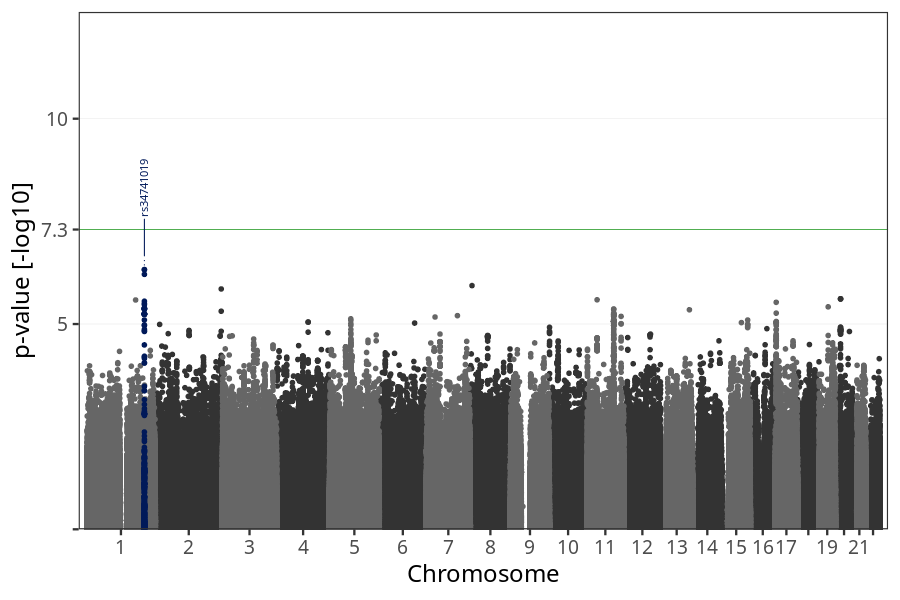
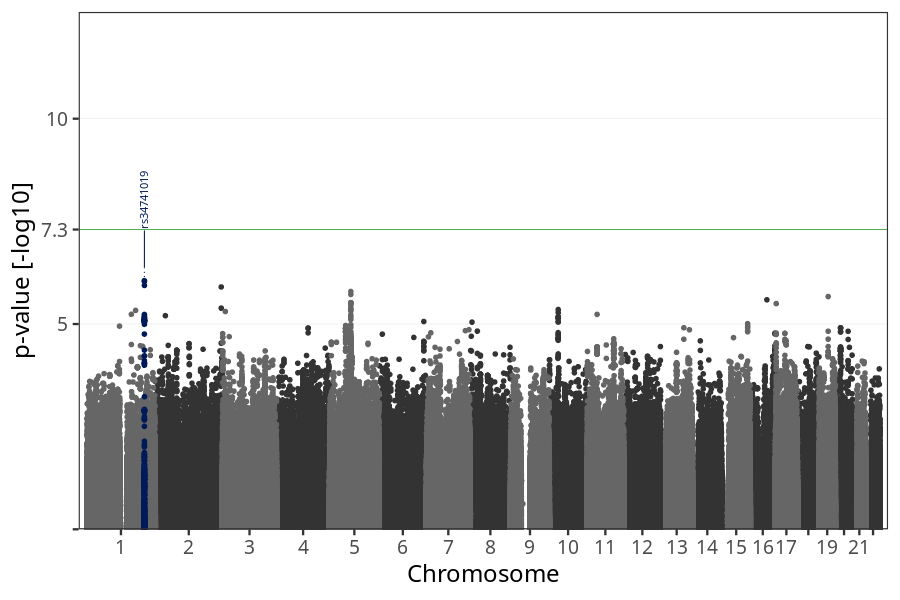
rerun gwas

diff --git a/docs/hyperemesis_gravidarum.md b/docs/hyperemesis_gravidarum.md
@@ -1,75 +1,33 @@
 # Hyperemesis gravidarum
 GWAS of mothers hospitalized due to prolonged nausea and vomiting.
 
-### children
-
-#### Phenotypes
-| Value | N |
-| ----- | - |
-| 0 | 72641 |
-| 1 | 748 |
-| Total | 73389 |
-
-#### Association results
-- [Association results](regenie/pop_children_pheno_hyperemesis_gravidarum/pop_children_pheno_hyperemesis_gravidarum.md)
-![](regenie/pop_children_pheno_hyperemesis_gravidarum/figures/pop_children_pheno_hyperemesis_gravidarum_mh.png)
-Results prior to COJO are available [here](regenie_no_cojo/pop_children_pheno_hyperemesis_gravidarum/pop_children_pheno_hyperemesis_gravidarum.md)
-
 ### children_no_nausea_vomiting
 
 #### Phenotypes
 | Value | N |
 | ----- | - |
-| 0 | 54051 |
+| 0 | 18590 |
 | 1 | 748 |
-| Total | 54799 |
+| Total | 19338 |
 
 #### Association results
 - [Association results](regenie/pop_children_no_nausea_vomiting_pheno_hyperemesis_gravidarum/pop_children_no_nausea_vomiting_pheno_hyperemesis_gravidarum.md)
 ![](regenie/pop_children_no_nausea_vomiting_pheno_hyperemesis_gravidarum/figures/pop_children_no_nausea_vomiting_pheno_hyperemesis_gravidarum_mh.png)
 Results prior to COJO are available [here](regenie_no_cojo/pop_children_no_nausea_vomiting_pheno_hyperemesis_gravidarum/pop_children_no_nausea_vomiting_pheno_hyperemesis_gravidarum.md)
 
-### mothers
-
-#### Phenotypes
-| Value | N |
-| ----- | - |
-| 0 | 55648 |
-| 1 | 577 |
-| Total | 56225 |
-
-#### Association results
-- [Association results](regenie/pop_mothers_pheno_hyperemesis_gravidarum/pop_mothers_pheno_hyperemesis_gravidarum.md)
-![](regenie/pop_mothers_pheno_hyperemesis_gravidarum/figures/pop_mothers_pheno_hyperemesis_gravidarum_mh.png)
-Results prior to COJO are available [here](regenie_no_cojo/pop_mothers_pheno_hyperemesis_gravidarum/pop_mothers_pheno_hyperemesis_gravidarum.md)
-
 ### mothers_no_nausea_vomiting
 
 #### Phenotypes
 | Value | N |
 | ----- | - |
-| 0 | 41287 |
+| 0 | 14361 |
 | 1 | 577 |
-| Total | 41864 |
+| Total | 14938 |
 
 #### Association results
 - [Association results](regenie/pop_mothers_no_nausea_vomiting_pheno_hyperemesis_gravidarum/pop_mothers_no_nausea_vomiting_pheno_hyperemesis_gravidarum.md)
 ![](regenie/pop_mothers_no_nausea_vomiting_pheno_hyperemesis_gravidarum/figures/pop_mothers_no_nausea_vomiting_pheno_hyperemesis_gravidarum_mh.png)
 Results prior to COJO are available [here](regenie_no_cojo/pop_mothers_no_nausea_vomiting_pheno_hyperemesis_gravidarum/pop_mothers_no_nausea_vomiting_pheno_hyperemesis_gravidarum.md)
-
-### fathers
-
-#### Phenotypes
-| Value | N |
-| ----- | - |
-| 0 | 38022 |
-| 1 | 430 |
-| Total | 38452 |
-
-#### Association results
-- [Association results](regenie/pop_fathers_pheno_hyperemesis_gravidarum/pop_fathers_pheno_hyperemesis_gravidarum.md)
-![](regenie/pop_fathers_pheno_hyperemesis_gravidarum/figures/pop_fathers_pheno_hyperemesis_gravidarum_mh.png)
-Results prior to COJO are available [here](regenie_no_cojo/pop_fathers_pheno_hyperemesis_gravidarum/pop_fathers_pheno_hyperemesis_gravidarum.md)
 
 ### fathers_no_nausea_vomiting
 
